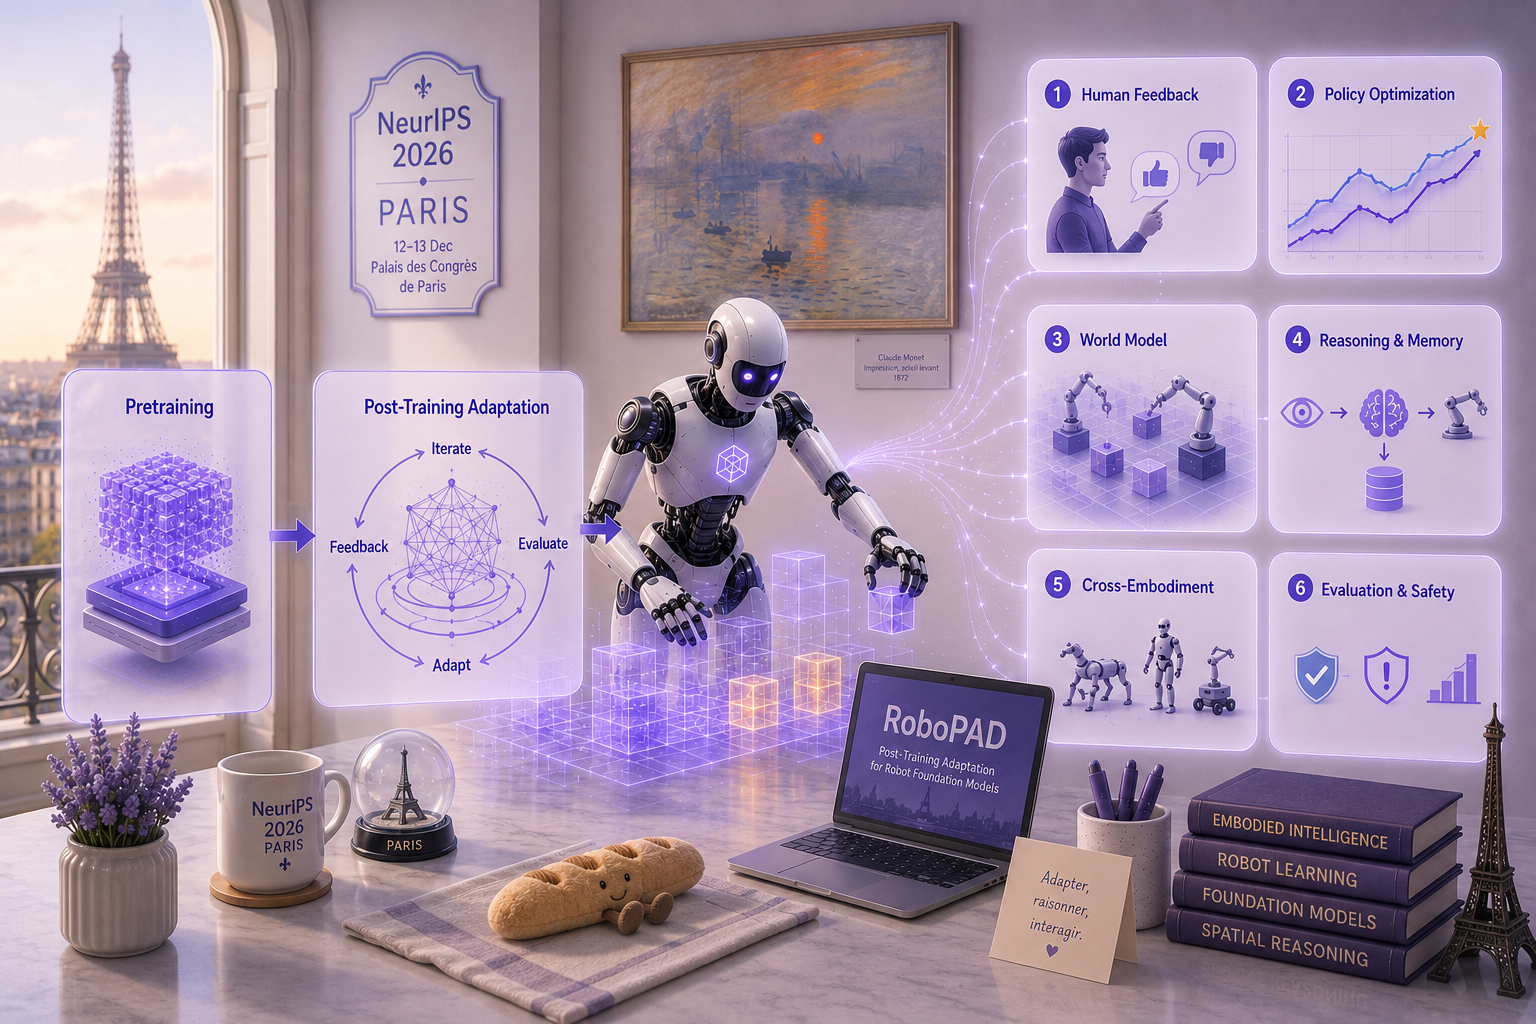
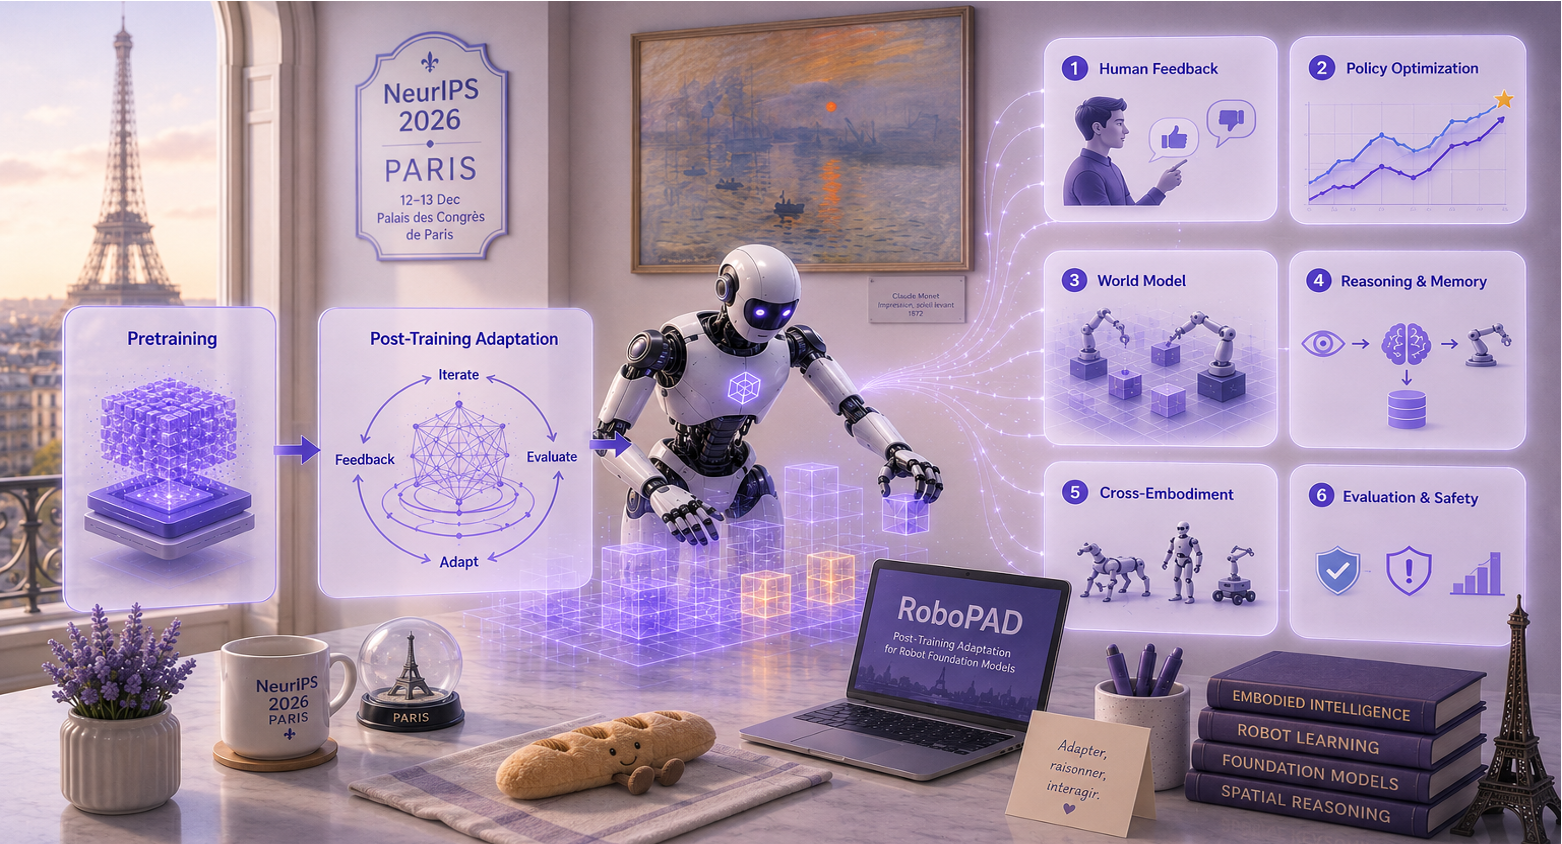
Restore full teaser display and update to latest teaser image.

diff --git a/index.html b/index.html
@@ -146,18 +146,6 @@
             border-top: 1px solid rgba(196, 181, 253, 0.14);
             background: linear-gradient(180deg, rgba(18, 10, 36, 0.35), rgba(12, 8, 24, 0.5));
         }
-
-        .teaser-frame {
-            aspect-ratio: 3 / 1.54;
-            overflow: hidden;
-        }
-
-        .teaser-frame img {
-            width: 100%;
-            height: 100%;
-            object-fit: cover;
-            object-position: center top;
-        }
     </style>
     <script>
         tailwind.config = {
@@ -246,9 +234,7 @@
                     <span class="pill inline-flex items-center rounded-full px-3.5 py-1.5 text-sm text-brand-100">Paris, France</span>
                 </div>
             </div>
-            <div class="teaser-frame">
-                <img src="teaser.png?v=2" alt="RoboPAD workshop teaser: post-training adaptation pipeline for robot foundation models" loading="eager" decoding="async" />
-            </div>
+            <img src="teaser.png?v=3" alt="RoboPAD workshop teaser: post-training adaptation pipeline for robot foundation models" class="block h-auto w-full" loading="eager" decoding="async" />
             <div class="teaser-easter-egg px-6 py-4 md:px-8 md:py-5">
                 <p class="text-sm leading-relaxed text-brand-100/60 md:text-[0.95rem]">
                     <span class="mr-1.5" aria-hidden="true">🥖</span>